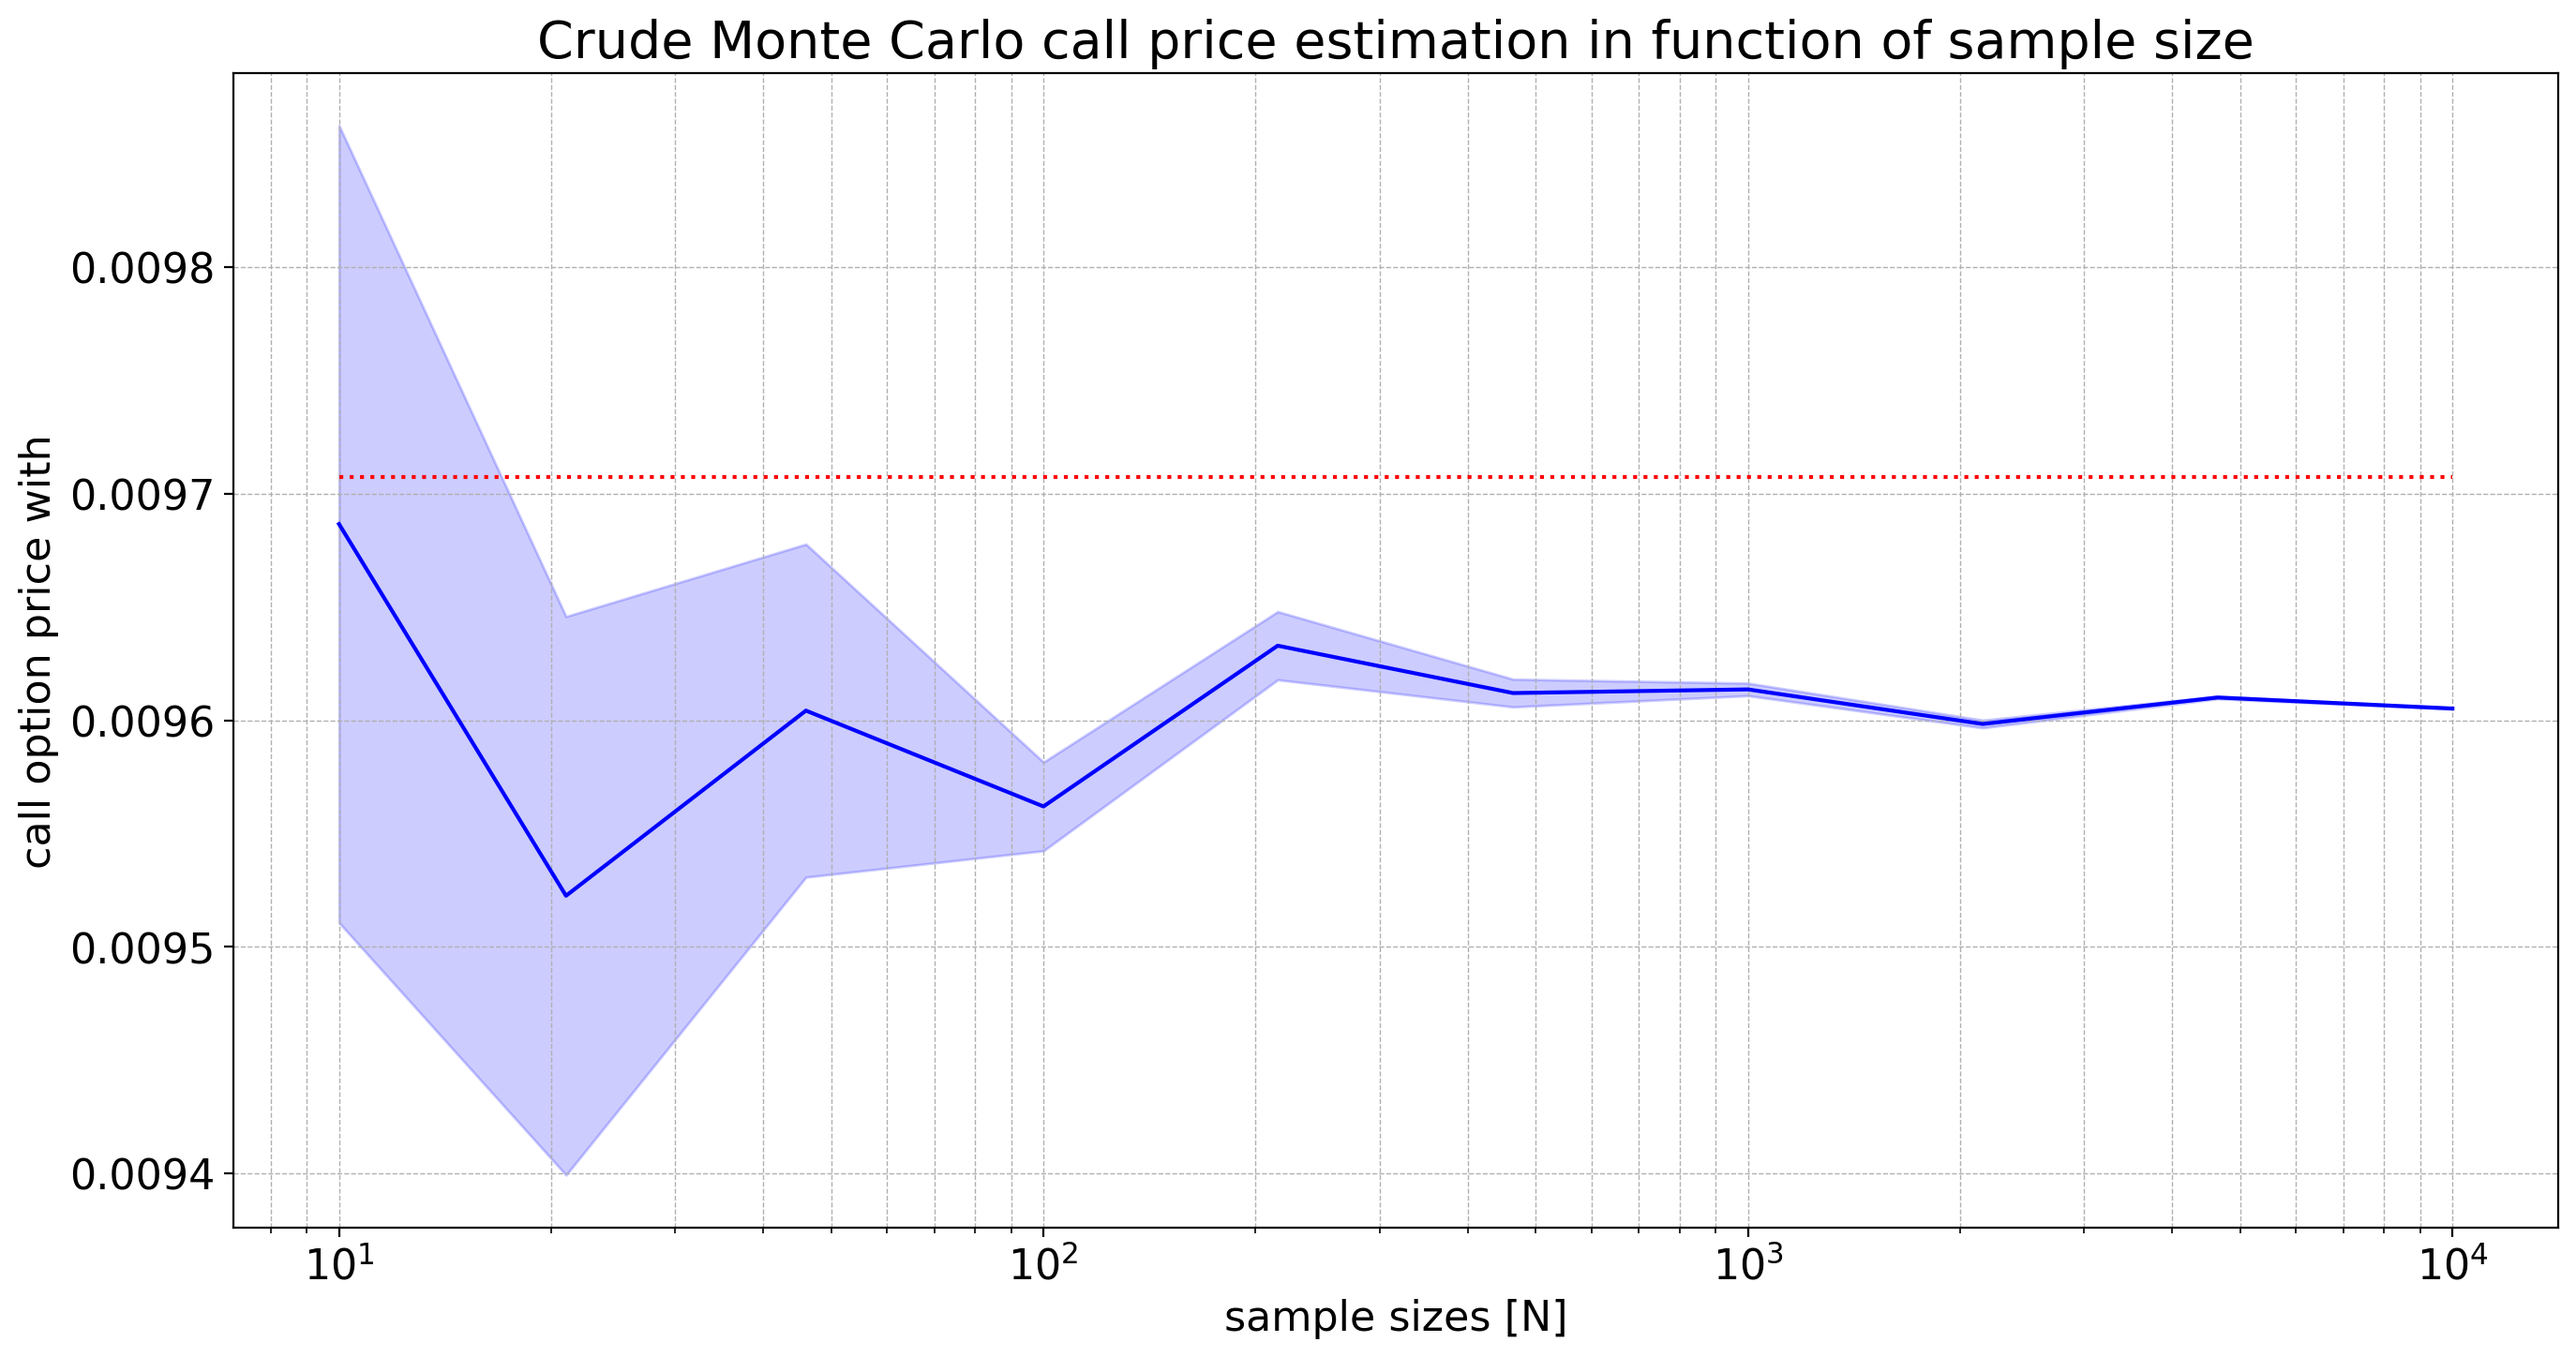
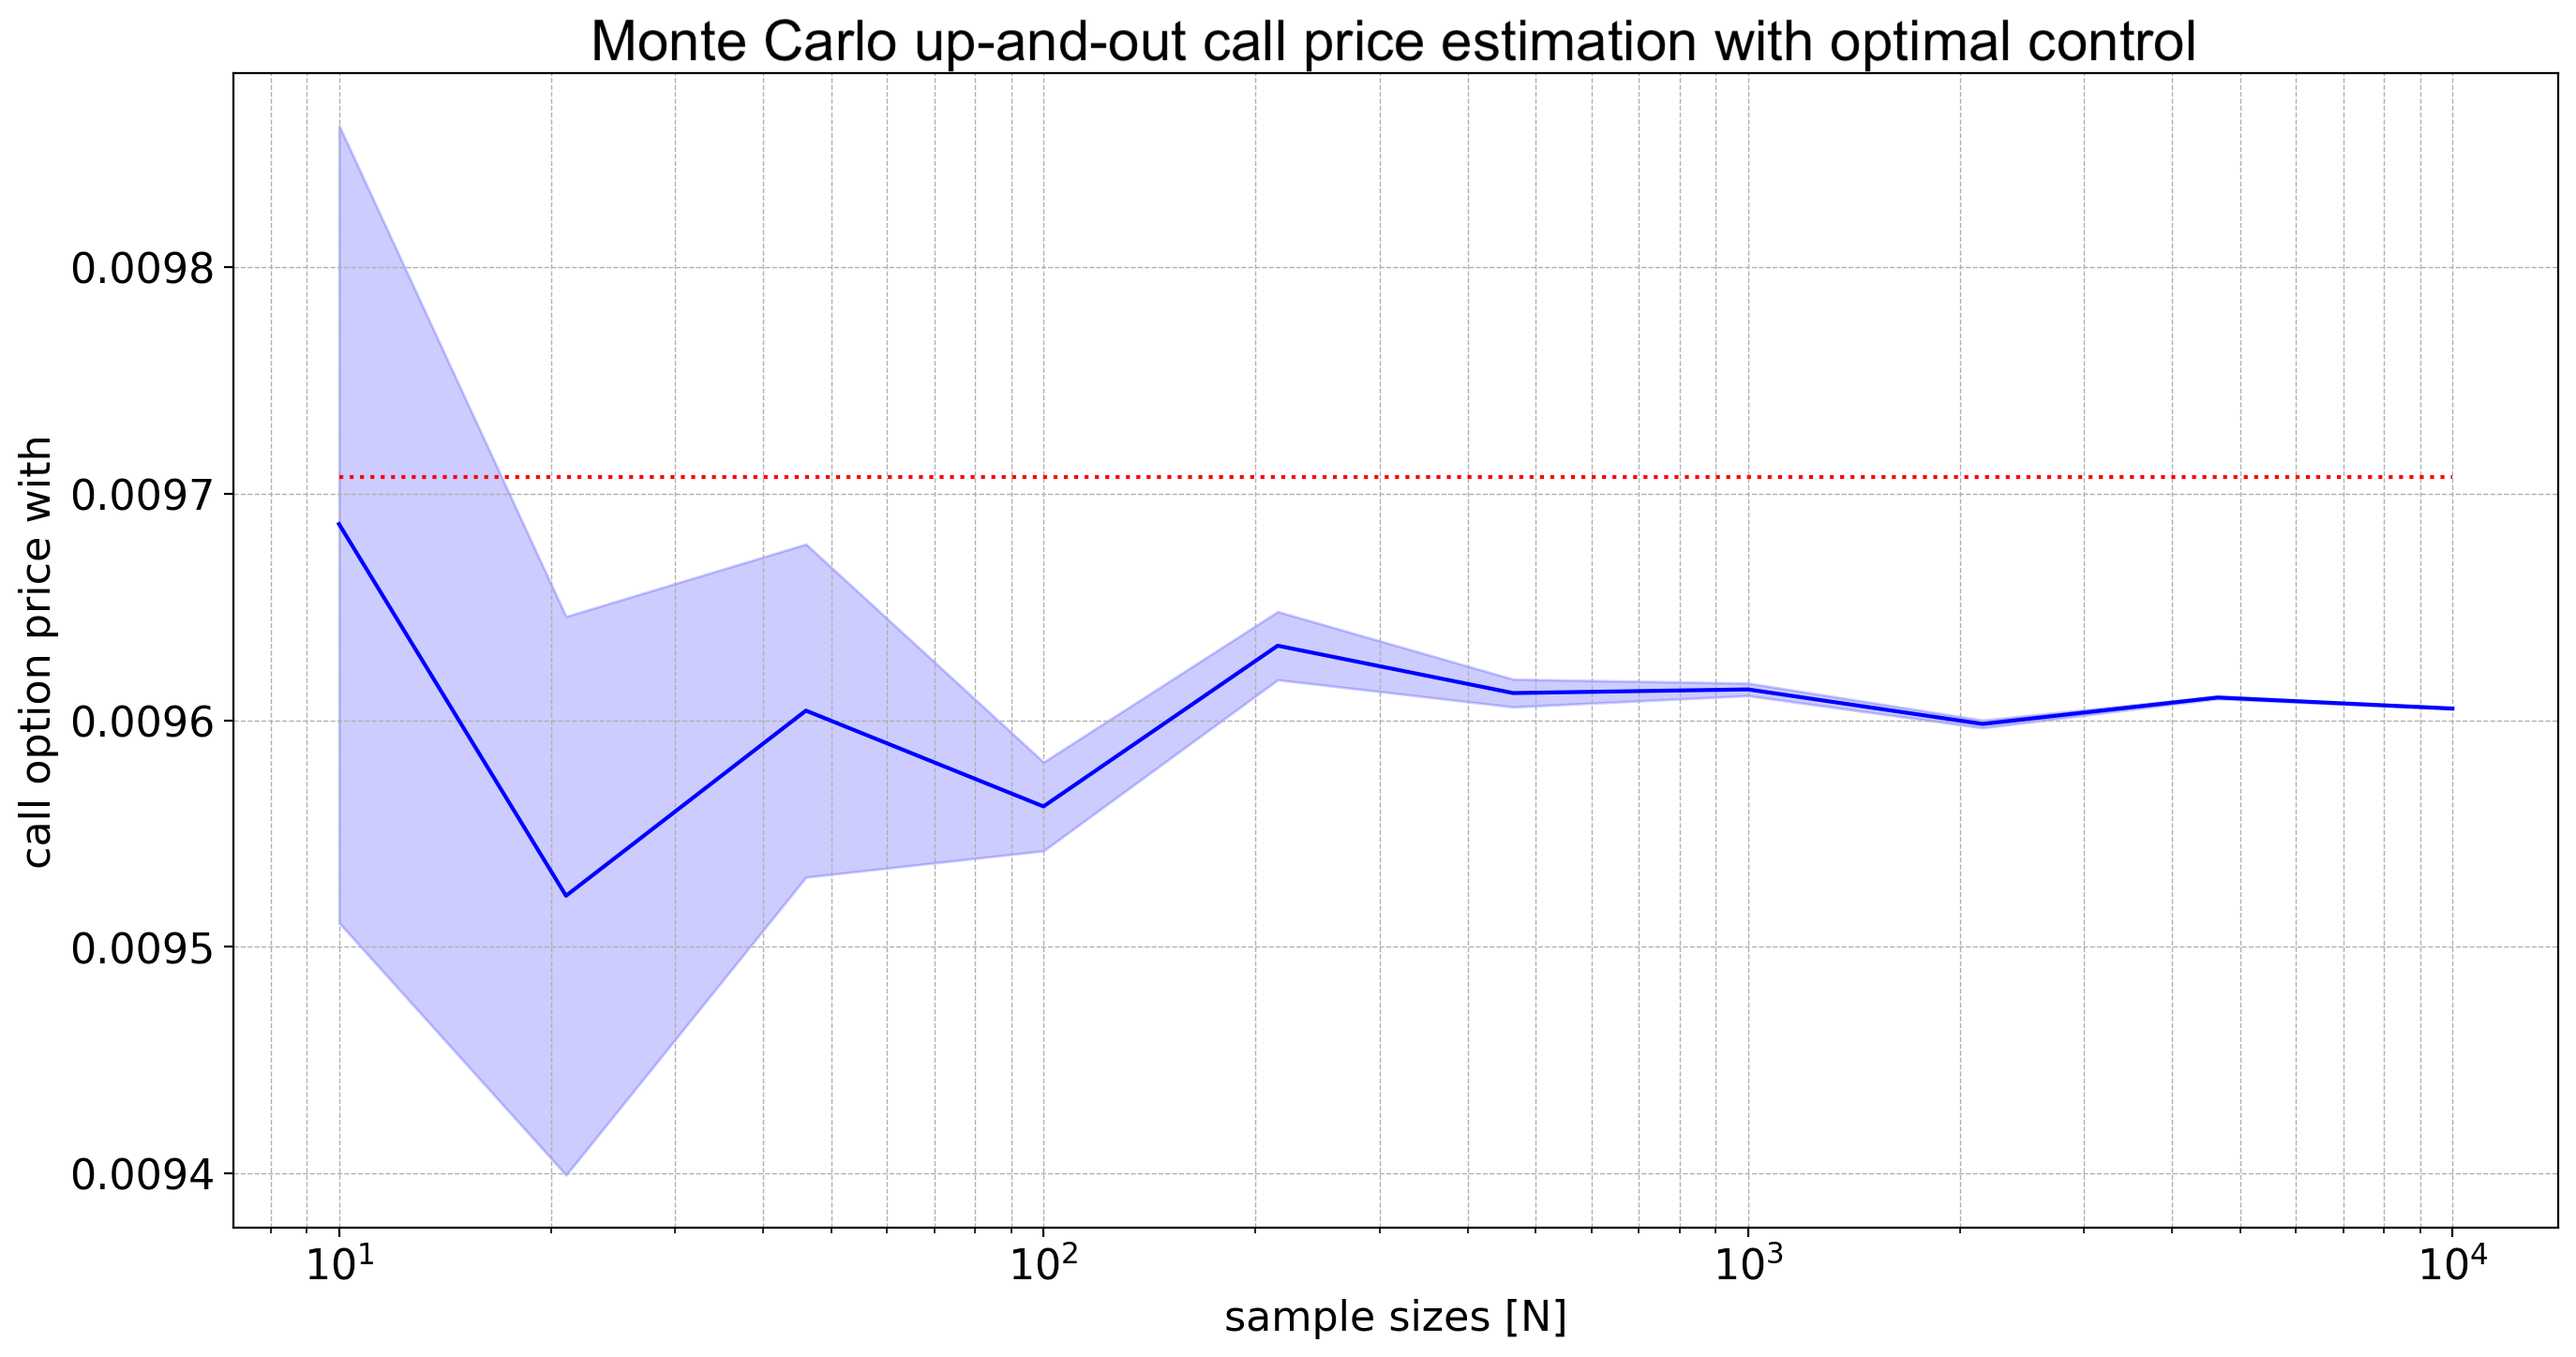
Slight changes and graphs added The report is kept private for now

Changed region(s): [[0.2165, 0.0, 0.8661, 0.0622]]

diff --git a/Up-and-out Call Option/Optimal_Up_and_Out_Call.py b/Up-and-out Call Option/Optimal_Up_and_Out_Call.py
@@ -20,98 +20,106 @@ S0 = 100
 K = 150
 #Up strike price
 U = 200
-#Subintervals
-M = 1000
+#grid_params = [(50,30),(100,60),(300,180),(500,300)]
+grid_params = [(3000,1000)]
+for grid_param in grid_params:
 
-# We will assume t = 0 for simplicity
-dt = T/M
-timeline = np.linspace(0,T,num=M+1,endpoint=True)
-
-#Grid building
-P = 3000 #space
-#Subintervals
-M_tilde = M #time
-s_min = S0*np.exp((r-(vol**2)/2)*T-6*vol*np.sqrt(T))
-s_max = U
-
-s_set = np.linspace(s_min,s_max,num=P,endpoint=True)
-t_set = np.linspace(0,T,num=M_tilde,endpoint=True)
-
-dt = T/(M_tilde-1)
-ds = (s_max-s_min)/(P-1)
-
-Up_Out_price = analytical_Up_Out_call_price(S0, K, U, T, r, vol)
-print(Up_Out_price)
-#%%
-
-#Boundary conditions
-eps = 0.01
-
-#Setup value function with its boundary condition
-#V(s,t), value function
-V_matrix = np.zeros((P,M_tilde))
-#condition for v(smin,t) already 0
-#condition for v(smax,t)
-V_matrix[-1,:] = eps
-#condition for v(s,T)
-V_matrix[:,-1] = np.maximum(s_set-K,0)
+    #Subintervals
+    M = grid_param[1]
 
 
-V_matrix = crank_nicholson_pde_solver(V_matrix, dt, ds, s_set, M_tilde, P, vol, r)
-
-#surface_plotter(s_set, t_set,V_matrix, title="Value Surface", filename="../Graphs/V_surface_UOC.png")
-
-#%%
-zeta = zeta_control_generator(P,M_tilde, V_matrix, s_set, ds, vol)
-
-S_min = S0*np.exp((r-(vol**2)/2)*T-3*vol*np.sqrt(T))
-S_max = S0*np.exp((r-(vol**2)/2)*T+3*vol*np.sqrt(T))
-
-idx_S_min = np.argmin(np.abs(s_set - S_min))
-idx_S_max = np.argmin(np.abs(s_set - S_max))
-
-surface_plotter(s_set[idx_S_min:idx_S_max], t_set[:-1],zeta[idx_S_min:idx_S_max,:-1], title="Zeta Optimal Control Surface", filename="../Graphs/S_surface_UOC.png")
+    # We will assume t = 0 for simplicity
+    dt = T/M
+    timeline = np.linspace(0,T,num=M+1,endpoint=True)
 
 
-zeta_interpolator = RegularGridInterpolator((s_set, t_set), zeta, method='linear', bounds_error=False, fill_value=0)
+    #Grid building
+    P = grid_param[0] #space
 
-#%%
-stock_price, _ = generate_controled_path(S_0=S0, nbr_gen=100, time_obs=M_tilde, timeline=t_set, delta_t=dt,mu=r,sigma=vol, s_min=s_min, s_max=s_max, zeta_interpolator=zeta_interpolator)
+    #Subintervals
+    M_tilde = M #time
+    s_min = S0*np.exp((r-(vol**2)/2)*T-6*vol*np.sqrt(T))
+    s_max = U
+
+    s_set = np.linspace(s_min,s_max,num=P,endpoint=True)
+    t_set = np.linspace(0,T,num=M_tilde,endpoint=True)
+
+    dt = T/(M_tilde-1)
+    ds = (s_max-s_min)/(P-1)
+
+    #Up_Out_price = analytical_Up_Out_call_price(S0, K, U, T, r, vol)
+    #print(Up_Out_price)
+    #%%
+
+    #Boundary conditions
+    eps = 0.01
+
+    #Setup value function with its boundary condition
+    #V(s,t), value function
+    V_matrix = np.zeros((P,M_tilde))
+    #condition for v(smin,t) already 0
+    #condition for v(smax,t)
+    V_matrix[-1,:] = eps
+    #condition for v(s,T)
+    V_matrix[:,-1] = np.maximum(s_set-K,0)
 
 
-stock_price = stock_price.with_columns(
-                (np.maximum(pl.col(f"S_{t_set[-1]}") - K, 0)* np.exp(-r * T)).alias("payoff")
-            )
+    V_matrix = crank_nicholson_pde_solver(V_matrix, dt, ds, s_set, M_tilde, P, vol, r)
+
+    #surface_plotter(s_set, t_set,V_matrix, title="Value Surface", filename="../Graphs/V_surface_UOC.png")
+
+    #%%
+    zeta = zeta_control_generator(P,M_tilde, V_matrix, s_set, ds, vol)
+
+    S_min = S0*np.exp((r-(vol**2)/2)*T-3*vol*np.sqrt(T))
+    S_max = S0*np.exp((r-(vol**2)/2)*T+3*vol*np.sqrt(T))
+
+    idx_S_min = np.argmin(np.abs(s_set - S_min))
+    idx_S_max = np.argmin(np.abs(s_set - S_max))
+
+    #surface_plotter(s_set[idx_S_min:idx_S_max], t_set[:-1],zeta[idx_S_min:idx_S_max,:-1], title="Zeta Optimal Control Surface", filename="../Graphs/S_surface_UOC.png")
 
 
-stock_price = stock_price.with_columns(
-    pl.max_horizontal(pl.exclude("likelihood_ratio")).alias("S_max")
-)
-stock_price = stock_price.with_columns(
-    (pl.when(pl.col("S_max") <= U).then(1).otherwise(0)).alias("condition")
-)
+    zeta_interpolator = RegularGridInterpolator((s_set, t_set), zeta, method='linear', bounds_error=False, fill_value=0)
 
-stock_price = stock_price.with_columns(
-    (pl.col("payoff") * pl.col("likelihood_ratio") * pl.col("condition")).alias("payoff_weighted")
-)
+    #%%
+    stock_price, _ = generate_controled_path(S_0=S0, nbr_gen=100, time_obs=M_tilde, timeline=t_set, delta_t=dt,mu=r,sigma=vol, s_min=s_min, s_max=s_max, zeta_interpolator=zeta_interpolator)
 
-value = (stock_price.select("payoff_weighted")).mean().item()
 
-print("The price is:",value)
-N =100
-plot_paths(stock_paths=stock_price.select(pl.exclude(["likelihood_ratio", "payoff", "payoff_weighted", "S_max", "condition"])).to_numpy(), timeline=t_set, N=N, K=K, filename=f"../Graphs/stock_paths_optimal_{N}_{P}s_{M_tilde}t_UOC.png", avg_path=True, U=U, title="Generated Controlled Stock Price Paths with 30% volatility")
+    stock_price = stock_price.with_columns(
+                    (np.maximum(pl.col(f"S_{t_set[-1]}") - K, 0)* np.exp(-r * T)).alias("payoff")
+                )
 
-#%%
-#Smapling size
-nbr_Ns = 10
-Ns = np.logspace(1,4,num=nbr_Ns,dtype=int) #np.ndarray
 
-# iteration of each process
-nbr_iterations = 12
-iterations = np.arange(0,nbr_iterations) #np.ndarray
+    stock_price = stock_price.with_columns(
+        pl.max_horizontal(pl.exclude("likelihood_ratio")).alias("S_max")
+    )
+    stock_price = stock_price.with_columns(
+        (pl.when(pl.col("S_max") <= U).then(1).otherwise(0)).alias("condition")
+    )
 
-numerical_prices_opt_control, confidence_intervals_opt_control = generate_numerical_prices(iterations=iterations,Ns=Ns,S_0=S0, K=K, M=M_tilde, T=T, timeline=t_set, dt=dt, r=r, vol=vol, generate=generate_controled_path, U = U, s_min=s_min, s_max=s_max, zeta_interpolator=zeta_interpolator)
-numerical_prices_avg_opt_control=  numerical_prices_opt_control.mean()
-numerical_prices_std_opt_control = numerical_prices_opt_control.std()
-plot_MC_Analytical(analytical_price=Up_Out_price, numerical_prices_avg=numerical_prices_avg_opt_control, numerical_prices_std=numerical_prices_std_opt_control, sample_sizes=Ns, nbr_iterations = nbr_iterations, confidence_level=0.95, filename="../Graphs/MC_UOCO_Optimal_Controlled")
+    stock_price = stock_price.with_columns(
+        (pl.col("payoff") * pl.col("likelihood_ratio") * pl.col("condition")).alias("payoff_weighted")
+    )
 
+    value = (stock_price.select("payoff_weighted")).mean().item()
+
+    print("The price is:",value)
+    N =100
+    plot_paths(stock_paths=stock_price.select(pl.exclude(["likelihood_ratio", "payoff", "payoff_weighted", "S_max", "condition"])).to_numpy(), timeline=t_set, N=N, K=K, filename=f"../Graphs/stock_paths_optimal_{N}_{P}s_{M_tilde}t_UOC.png", avg_path=True, U=U, title="Generated Controlled Stock Price Paths with 30% volatility")
+
+    #%%
+    #Smapling size
+    nbr_Ns = 10
+    Ns = np.logspace(1,4,num=nbr_Ns,dtype=int) #np.ndarray
+
+    # iteration of each process
+    nbr_iterations = 12
+    iterations = np.arange(0,nbr_iterations) #np.ndarray
+
+    numerical_prices_opt_control, confidence_intervals_opt_control = generate_numerical_prices(iterations=iterations,Ns=Ns,S_0=S0, K=K, M=M_tilde, T=T, timeline=t_set, dt=dt, r=r, vol=vol, generate=generate_controled_path, U = U, s_min=s_min, s_max=s_max, zeta_interpolator=zeta_interpolator)
+    numerical_prices_avg_opt_control=  numerical_prices_opt_control.mean()
+    numerical_prices_std_opt_control = numerical_prices_opt_control.std()
+    #plot_MC_Analytical(analytical_price=Up_Out_price, numerical_prices_avg=numerical_prices_avg_opt_control, numerical_prices_std=numerical_prices_std_opt_control, sample_sizes=Ns, nbr_iterations = nbr_iterations, confidence_level=0.95, filename="../Graphs/MC_UOCO_Optimal_Controlled", title="Monte Carlo up-and-out call price estimation with optimal control")
+    print("average price", numerical_prices_avg_opt_control)
+    print("average std", numerical_prices_std_opt_control)

diff --git a/Up-and-out Call Option/Up_and_out_call.py b/Up-and-out Call Option/Up_and_out_call.py
@@ -17,6 +17,7 @@ S0 = 100
 K = 150
 #Up strike price
 U = 200
+#U = 170
 #Subintervals
 M = 1000
 #Smapling size
@@ -31,8 +32,8 @@ iterations = np.arange(0,nbr_iterations)
 dt = T/M
 timeline = np.linspace(0,T,num=M+1,endpoint=True)
 #%%
-Up_Out_price = analytical_Up_Out_call_price(S0, K, U, T, r, vol)
-print(Up_Out_price)
+#Up_Out_price = analytical_Up_Out_call_price(S0, K, U, T, r, vol)
+#print(Up_Out_price)
 #%%
 ##################
 # 1.
